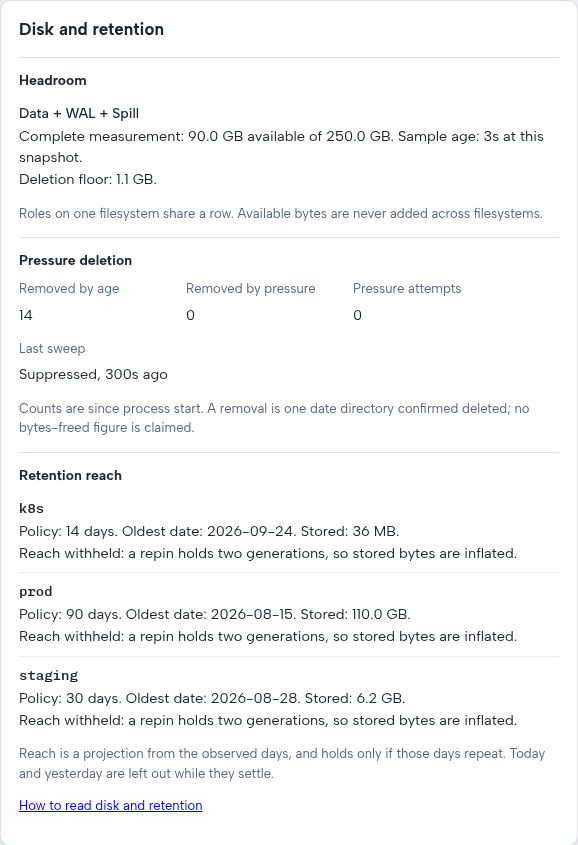
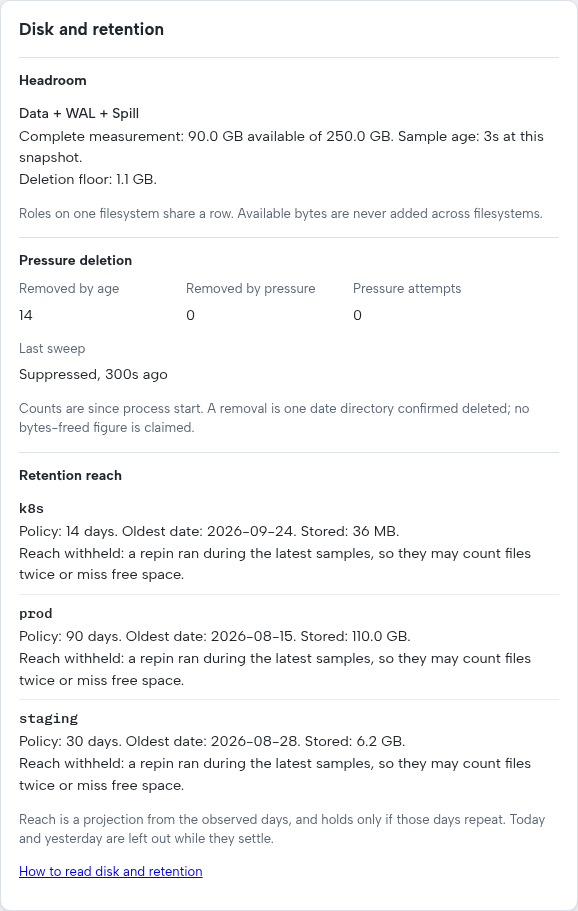
docs(evidence): recapture the repin-suppressed Disk and retention state (#202)
Recaptured from a clean tree at e9ec99fb with the whole health-page spec
(61 cases). Only the repin-suppressed capture changed: each of its three
reaches now reads that a repin ran during the latest samples, so they may
count files twice or miss free space. The other seven came out
byte-identical. The manifest names the new head, spec hash and bundle
hash, and the README row says why the reaches are withheld in the same
terms.

Changed region(s): [[0.0311, 0.0, 0.9343, 0.9846], [0.3114, 0.3077, 0.5294, 0.3692], [0.5917, 0.3077, 0.8097, 0.3692]]

diff --git a/visual-evidence/issue-202/README.md b/visual-evidence/issue-202/README.md
@@ -21,7 +21,7 @@ fit inside the page's own scroll container.
 | [Complete, 1440](disk-retention-complete-1440.png) | `health-capacity-complete.json` | Two headroom rows (Data + WAL, Spill) with a floor and no deficit, and a completed sweep. Three envs are projected in whole days at both ends from one shared fraction per end: prod "about 38–52 of 90 days", staging "about 12–17 of 30 days", and lab "about 3–4 of 7 days" from its 6 observed days. Archive shows keep-forever growth, and k8s is withheld for history and named in the growth-excluded note |
 | [Complete, 390](disk-retention-complete-390.png) | `health-capacity-complete.json` | The same card at a phone width. The pressure facts wrap to two columns, every sentence stays inside the card with no horizontal scroll, and no date breaks at its hyphen |
 | [Failed, retained](disk-retention-failed-retained-1440.png) | `health-capacity-failed-retained.json` | The headroom attempt failed. Its rows read "Collection failed; last complete reading" with a 3600 s age and a 274 MB deficit, and the last sweep failed. All four reaches are withheld as measurement unavailable with no digit, the rate-less k8s included, and so is edge, whose only partition is dated 2026-09-28, a day after the fixture's today. No env is excluded from growth |
-| [Repin suppressed](disk-retention-repin-suppressed-1440.png) | `health-capacity-repin-suppressed.json` | Both measurements are complete, but a repin is in flight. The last sweep reads "Suppressed", every reach is withheld because a repin holds two generations, with no digit, and no env is excluded from growth |
+| [Repin suppressed](disk-retention-repin-suppressed-1440.png) | `health-capacity-repin-suppressed.json` | Both measurements are complete, but a repin is in flight. The last sweep reads "Suppressed", every reach is withheld because a repin ran during the latest samples, with no digit, and no env is excluded from growth |
 | [Floor zero](disk-retention-floor-zero-1440.png) | `health-capacity-floor-zero.json` | A floor of 0 reads as "Pressure deletion off (floor 0)." with no pressure attempts. Prod and lab each read that the disk fills first at the largest observed day and keeps the full policy at the mean day. A fresh env is withheld for history and named in the growth-excluded note |
 | [Pressure](disk-retention-pressure-1440.png) | `health-capacity-pressure.json` | One row for all three roles with a 474 MB deficit, 12 pressure removals over 5 attempts, and a sweep that "Ran out of candidates below the floor". That sweep left each env only today's partition, so every reach is withheld for history and the finite envs lab and prod are excluded from growth |
 | [Awaiting](disk-retention-awaiting-1440.png) | `health-capacity-awaiting.json` | Before the first measurement, headroom and reach both read "Awaiting measurement", with no sweep yet. The card does not read the empty environment list as "No stored date partitions yet." |
